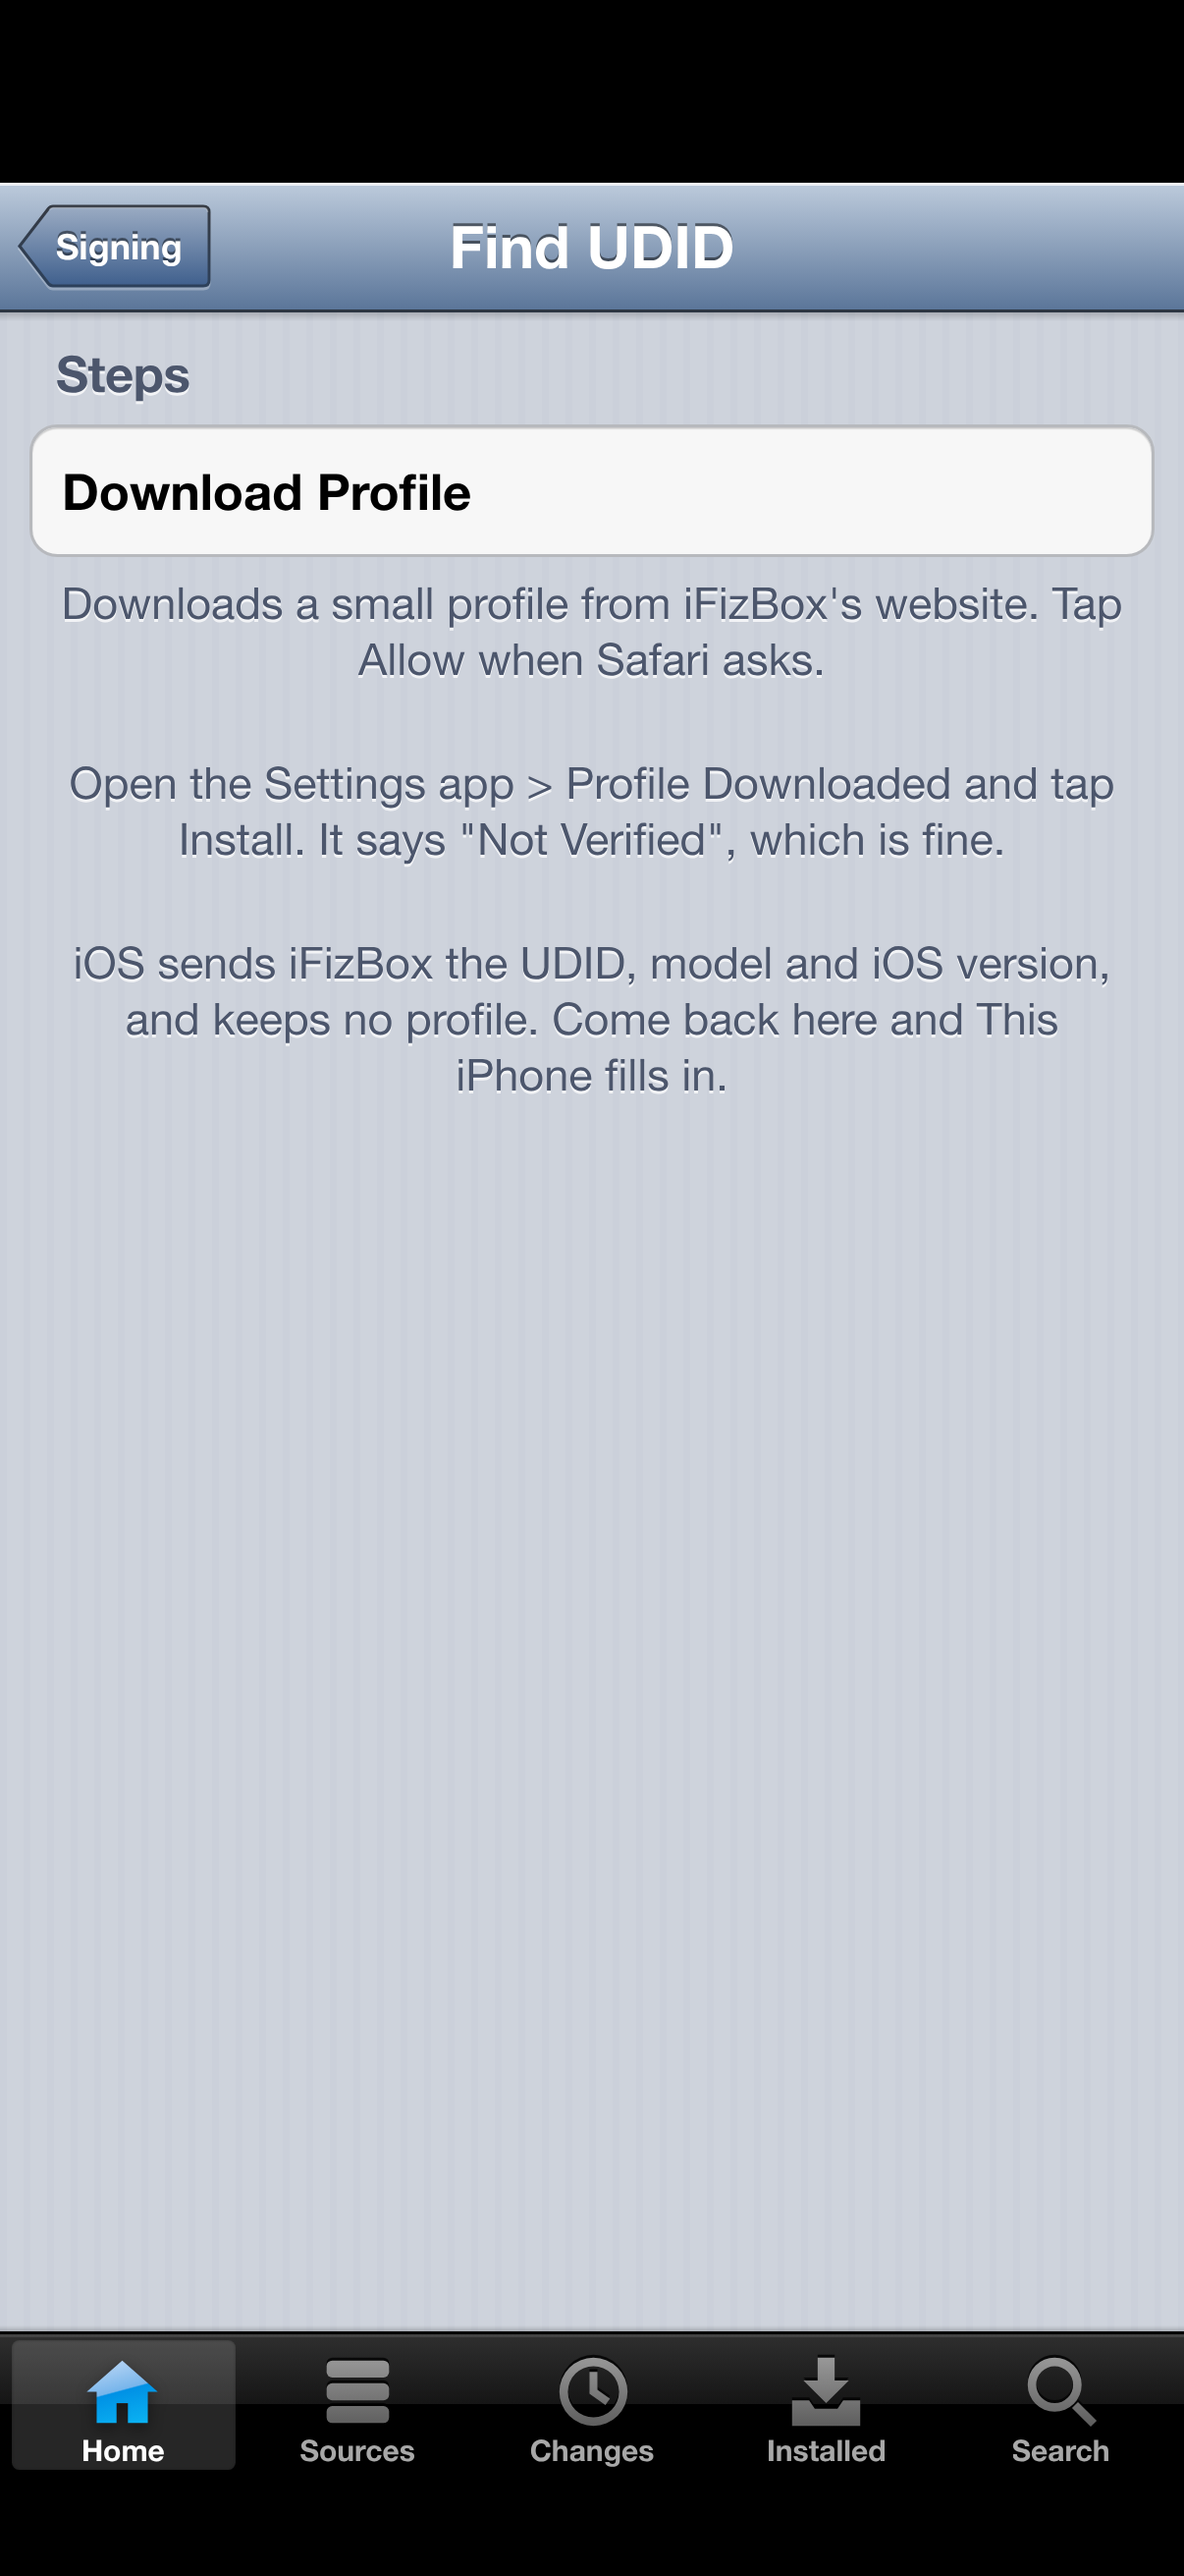
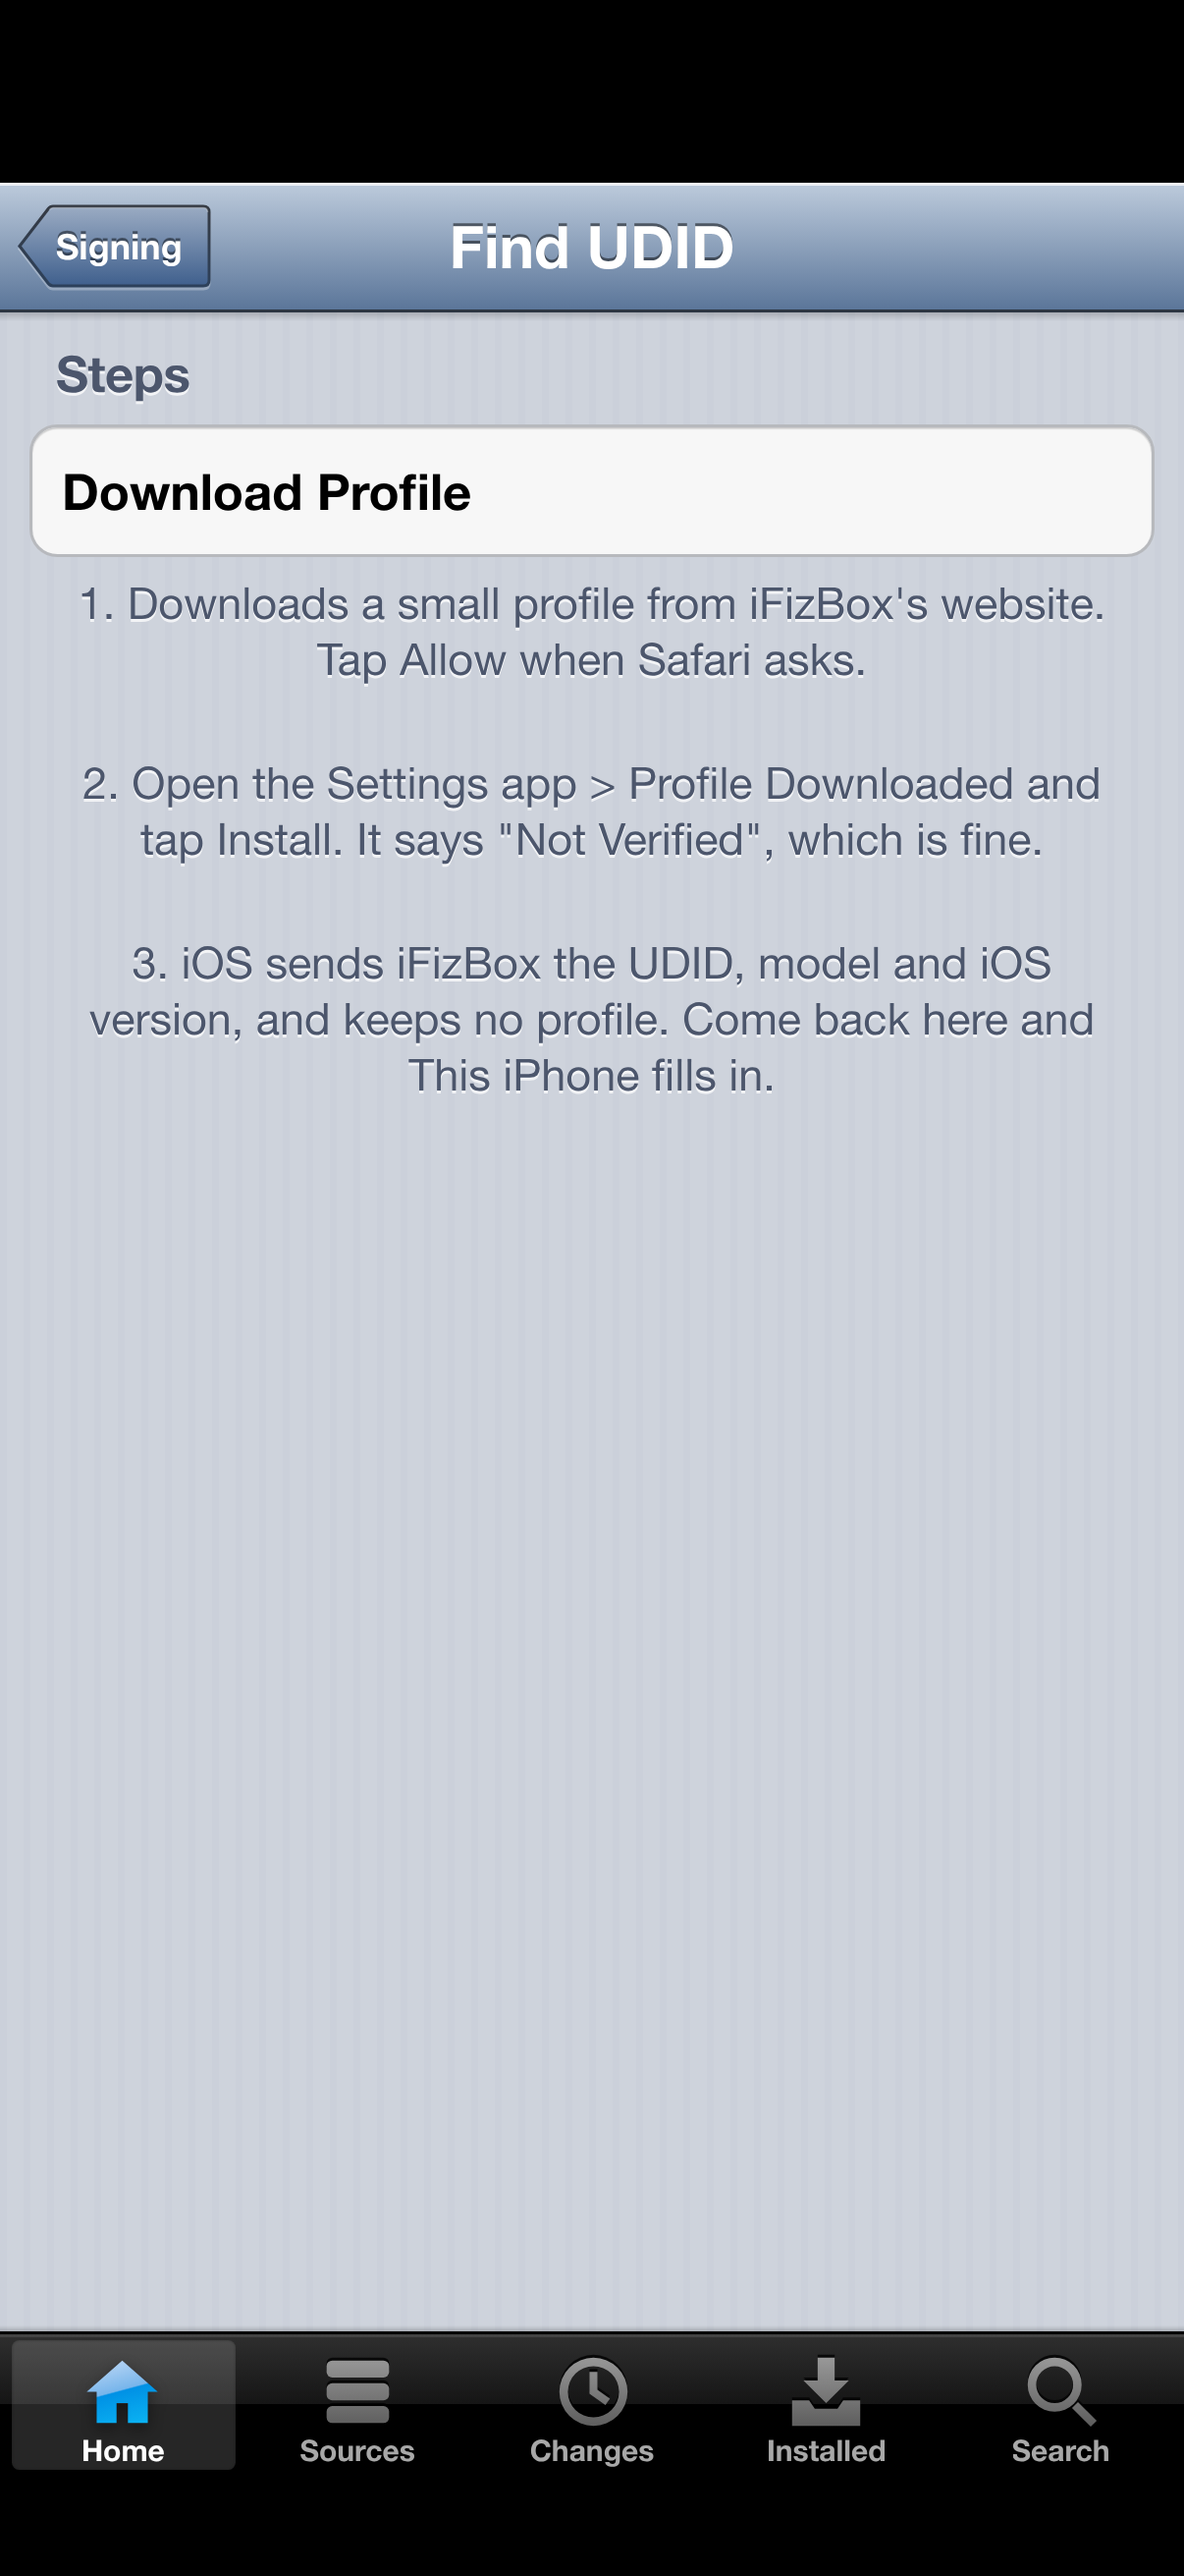
F316 review fixes: role hint only on a rights refusal, numbered Find UDID steps

Changed region(s): [[0.0614, 0.2162, 0.9511, 0.3398], [0.0614, 0.3707, 0.9204, 0.4325]]

diff --git a/web/app/screens/hintstyle-f316.test.js b/web/app/screens/hintstyle-f316.test.js
@@ -52,7 +52,7 @@ test("Find UDID's page: one group per step, Download Profile starts it, then the
   const g = udidPageSections();
   assert.deepEqual(g.map(labels), [[DOWNLOAD_PROFILE], [], []]);
   assert.equal(g[0].rows[0].start, true);
-  assert.deepEqual(g.map((s) => s.footer), UDID_STEPS);
+  assert.deepEqual(g.map((s) => s.footer), UDID_STEPS.map((s, i) => `${i + 1}. ${s}`));
   const w = udidPageSections({ pending: true });
   assert.equal(w[0].rows[0].detail, "Waiting");
   assert.equal(w[0].footer, UDID_WAITING);
@@ -89,8 +89,9 @@ test("Apple Developer Account: the key rows' two sentences; the role only on fai
   assert.match(accountFooter({ key: true, app: true }), /makes a profile with Push for each app you sign\. The key stays in this iPhone's Keychain\.$/);
   assert.match(accountFooter({ key: true, app: false }), /The key stays in this browser\.$/);
   for (const k of [true, false]) assert.doesNotMatch(accountFooter({ key: k }), /role/);
-  assert.equal(withRoleHint(new Error("Error: Apple refused the key")), `Apple refused the key. ${ROLE_HINT}`);
-  assert.equal(withRoleHint("Not allowed."), `Not allowed. ${ROLE_HINT}`);
+  assert.equal(withRoleHint(Object.assign(new Error("Error: Apple refused the key"), { status: 403 })), `Apple refused the key. ${ROLE_HINT}`);
+  assert.equal(withRoleHint("App Store Connect GET /devices: FORBIDDEN_ERROR"), `App Store Connect GET /devices: FORBIDDEN_ERROR. ${ROLE_HINT}`);
+  assert.equal(withRoleHint(new Error("Couldn't reach App Store Connect (offline).")), "Couldn't reach App Store Connect (offline).", "not for a network error");
 });
 
 test("Website > Other Apps: the footer by lock state", () => {

diff --git a/web/app/screens/devaccount.js b/web/app/screens/devaccount.js
@@ -412,8 +412,12 @@ async function checkAccount(native, redraw = () => {}) {
 // F316 (AGENTS.md Hints): two short sentences under the key rows; with no key, what one is for. The role the key
 // needs is said only when Apple refuses it (withRoleHint: Key Not Accepted, Check Account's failure).
 export const ROLE_HINT = "Use a key with the Admin or App Manager role.";
+// Only for a refusal about the key's rights (403 / forbidden / permission), not a network error or a typo'd ID.
+export const roleRefusal = (e) => e?.status === 403 || e?.code === "key-role"
+  || /\b403\b|forbidden|permission|not allowed|role/i.test(String(e?.message ?? e));
 export const withRoleHint = (e) => {
   const m = String(e?.message ?? e).replace(/^\w+: /, "").trim();
+  if (!roleRefusal(e) || m.includes(ROLE_HINT)) return m;
   return `${m}${/[.!?]$/.test(m) || !m ? "" : "."} ${ROLE_HINT}`.trim();
 };
 export function accountFooter({ key = false, app = true } = {}) {

diff --git a/web/app/screens/signing.js b/web/app/screens/signing.js
@@ -340,9 +340,9 @@ export function udidPageSections({ pending = false, udid = null } = {}) {
   if (udid) return [{ header: "This iPhone", rows: [{ label: "UDID", subtitle: udid }], footer: UDID_FOUND }];
   return [
     { header: "Steps", rows: [{ label: DOWNLOAD_PROFILE, start: true, ...(pending ? { detail: "Waiting" } : {}) }],
-      footer: pending ? UDID_WAITING : UDID_STEPS[0] },
-    { footer: UDID_STEPS[1] },
-    { footer: UDID_STEPS[2] },
+      footer: pending ? UDID_WAITING : `1. ${UDID_STEPS[0]}` },
+    { footer: `2. ${UDID_STEPS[1]}` }, // numbered step groups, as Pairing's (installroute.js setupGroups)
+    { footer: `3. ${UDID_STEPS[2]}` },
   ];
 }
 

diff --git a/journal/2026-11-20-f316-signing-hints/notes.md b/journal/2026-11-20-f316-signing-hints/notes.md
@@ -40,6 +40,15 @@ pages. Each footer is a small exported constant or pure builder, tested in `web/
 - `--mode sideload` capture fakes added to capture.mjs: `signing.status` (SIGN_STATUS env), `signing.installed`,
   `asc.key.info` (ASC_KEY env), `asc.profiles`.
 
+## Spec review
+
+- Fixed: the role hint was added to every failure; now only to a refusal about the key's rights
+  (`roleRefusal`: status 403, code key-role, or 403/forbidden/permission/role in the message).
+- Fixed: Find UDID's footer-only step groups are numbered "1. … 3.", as Pairing's (F317, installroute.js).
+- Kept, with reasons: the expiring-soon warning still takes Certificate Status' footer (it's "something off" and its fix);
+  the never-checked footer, the no-key account footer and the page's "UDID is here" state are needed states, not extras;
+  Other Apps' texts are the concept's own; This iPhone's and Find's footers sit under separate groups, one each.
+
 ## Checks
 
 - `node --test web/app`: 2555 pass, 0 fail.
